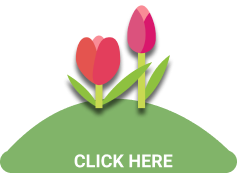
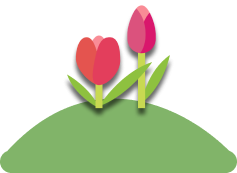
commit

Changed region(s): [[0.2954, 0.8671, 0.7384, 0.9827]]

diff --git a/workflow.html b/workflow.html
@@ -104,7 +104,9 @@
 
             <div class="bottomHalf">
                 <div class="subheaderpage3-2"></div>
-                <img class="plantspage3" src="../../stories/info-pics/clean_table_icons/farm-land-environmental-cost.png" onclick="NextPage('.page3-2')"/>
+                <div class="click"onclick="NextPage('.page3-2')" >
+                </p>CLICK HERE</p></div>
+                <img class="plantspage3" src="../../stories/info-pics/clean_table_icons/farm-land-environmental-cost.png"/>
                 
                 <div class="buttons-p3">
                     <div class="button-p3-1" onclick="BackPage('.page2')"></div>

diff --git a/pages/page3/page3.css b/pages/page3/page3.css
@@ -68,7 +68,24 @@
     align-items: center;
     flex-direction: column;
 }
+.page3 .click{
+    position: relative;
+    top: 190px;
+    z-index: 1;
+    color: white;
+    font-family: Roboto;
+font-style: normal;
+font-weight: bold;
+font-size: 18px;
+line-height: 21px;
 
+    animation: blinker 1.5s linear infinite;
+}
+@keyframes blinker{
+    50%{
+    opacity:0
+}
+}
 .page3 .plantspage3{
     position: relative;
     top: 10px;
@@ -80,5 +97,5 @@
     display: flex;
     justify-content: space-evenly;
     position: relative;
-    top: 10px;
+    top: 3px;
 }
